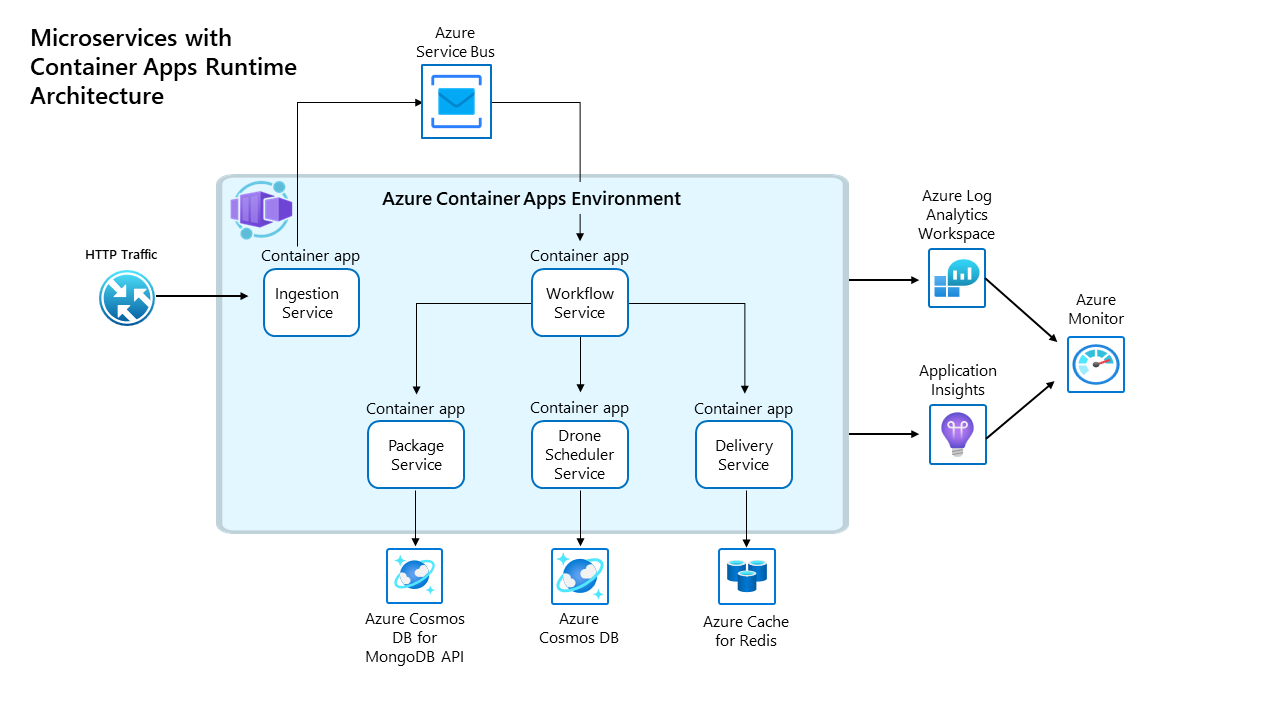
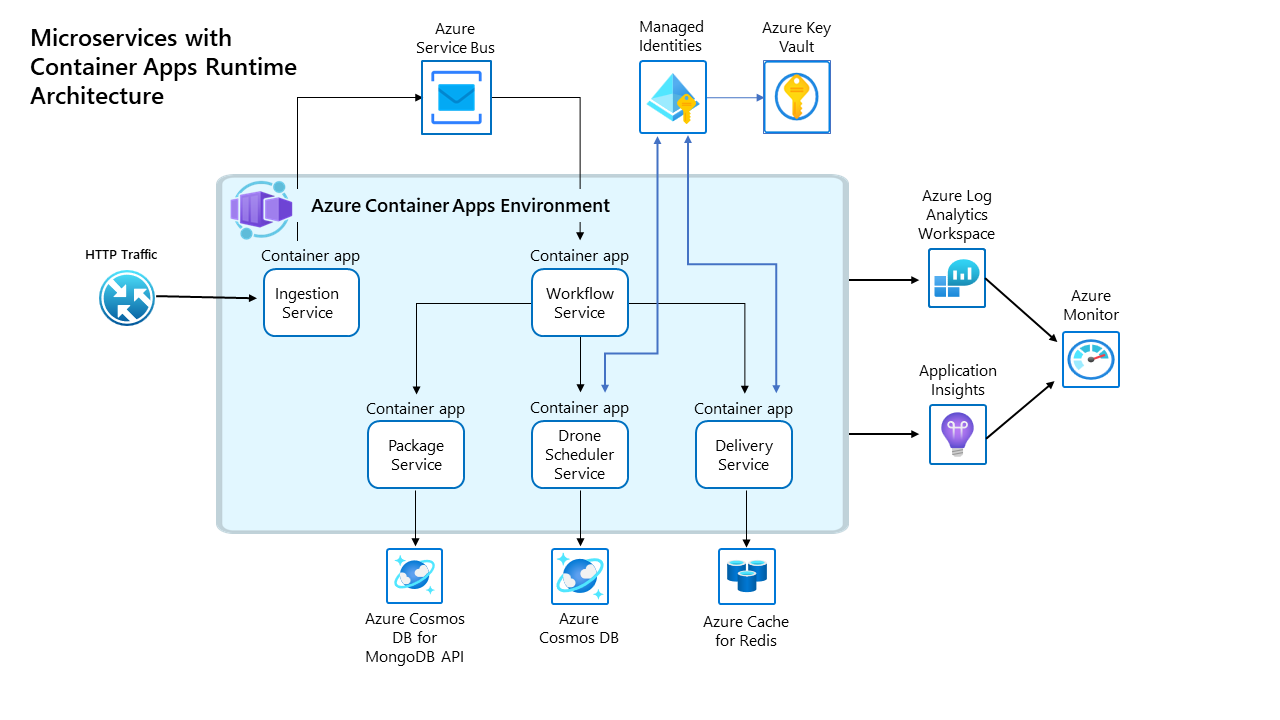
feat (mi): [general] change authN to use user managed identities (#26)

diff --git a/README.md b/README.md
@@ -10,7 +10,7 @@ Azure Container Apps is a new cloud native serverless managed service that is ju
 
 ## Migrating a microservices workload from AKS to Azure Container Apps
 
-This repository guides you during the process of running an example application composed of microservices in Azure Container Apps. In this example scenario, the Fabrikam Drone Delivery app that was previously running in Azure Kubernetes Services will be run in a newly created Azure Container App environment. This Azure managed service is optimized for running applications that span many microservices. This example will make some containers internet-facing via an HTTPS ingress, and internally accessible thanks to its built-in DNS-based service discovery capability. Additionally, it will manage their secrets in a secure manner.
+This repository guides you during the process of running an example application composed of microservices in Azure Container Apps. In this example scenario, the Fabrikam Drone Delivery app that was previously running in Azure Kubernetes Services will be run in a newly created Azure Container App environment. This Azure managed service is optimized for running applications that span many microservices. This example will make some containers internet-facing via an HTTPS ingress, and internally accessible thanks to its built-in DNS-based service discovery capability. Additionally, it will manage their secrets in a secure manner and authenticate against Azure KeyVault resources using User Managed Identities.
 
 ![Runtime architecture](microservices-with-container-apps-runtime-diagram.png)
 
@@ -18,12 +18,13 @@ This repository guides you during the process of running an example application 
 
 For more information on how the Container Apps feature are being used in this Reference Implementation, please take a look below:
 
-- [HTTPS ingress, this allows to expose the Ingestion service to internet.](https://docs.microsoft.com/en-us/azure/container-apps/ingress)
-- [Internal service discovery, Delivery, DroneScheduler and Package services must be internally reachable by Workflow service](https://docs.microsoft.com/en-us/azure/container-apps/connect-apps)
-- [Securely manage secrets, all services secrets are handled using this feature](https://docs.microsoft.com/en-us/azure/container-apps/secure-app)
-- [Run containers from any registry, the Fabrikam Drone Delivery uses ACR to publish its Docker images](https://docs.microsoft.com/en-us/azure/container-apps/containers)
-- [Use ARM templates to deploy my application, there is no need for another layer of indirection like Helm charts. All the Drone Delivery containers are part of the ARM templates](https://docs.microsoft.com/en-us/azure/container-apps/get-started)
-- [Logs, see the container logs directly in Log Analytics without configuring any provider from code or Azure service](https://docs.microsoft.com/en-us/azure/container-apps/monitor).
+- [HTTPS ingress, this allows to expose the Ingestion service to internet.](https://docs.microsoft.com/azure/container-apps/ingress)
+- [Internal service discovery, Delivery, DroneScheduler and Package services must be internally reachable by Workflow service](https://docs.microsoft.com/azure/container-apps/connect-apps)
+- [Use user-assigned identities when authenticating into Azure KeyVault from Delivery and DroneScheduler services](https://docs.microsoft.com/azure/container-apps/managed-identity?tabs=arm%2Cdotnet#add-a-user-assigned-identity)
+- [Securely manage secrets for Package, Ingestion and Workflow services](https://docs.microsoft.com/azure/container-apps/secure-app)
+- [Run containers from any registry, the Fabrikam Drone Delivery uses ACR to publish its Docker images](https://docs.microsoft.com/azure/container-apps/containers)
+- [Use ARM templates to deploy my application, there is no need for another layer of indirection like Helm charts. All the Drone Delivery containers are part of the ARM templates](https://docs.microsoft.com/azure/container-apps/get-started)
+- [Logs, see the container logs directly in Log Analytics without configuring any provider from code or Azure service](https://docs.microsoft.com/azure/container-apps/monitor).
 
 ## Prerequisites
 
@@ -56,8 +57,8 @@ Following the steps below will result in the creation of the following Azure res
 | Two Azure Cosmos Db instances             | Delivery and Package services have dependencies on Azure Cosmos DB |
 | An Azure Redis Cache instance             | Delivery service uses Azure Redis cache to keep track of inflight deliveries |
 | An Azure Service Bus                      | Ingestion and Workflow services communicate using Azure Service Bus queues |
-| Five Azure User Managed Identities        | These are going to give `Read` and `List` secrets permissions over Azure KeyVault to the microservices. :warning: This is currently not use in use from this Reference Implementation. |
-| Five Azure KeyVault instances             | Secrets are saved into Azure KeyVault instances. :warning: This is currently not use in use from this Reference Implementation. |
+| Five Azure User Managed Identities        | These are going to give `Read` and `List` secrets permissions over Azure KeyVault to the microservices.|
+| Five Azure KeyVault instances             | Secrets are saved into Azure KeyVault instances. :warning: Currently only 2 out of 5 instances are being used as part of this reference implementation |
 
 ## Clone the repository
 
@@ -93,6 +94,9 @@ Following the steps below will result in the creation of the following Azure res
    INGESTION_ID_PRINCIPAL_ID=$(az identity show -g rg-shipping-dronedelivery -n uid-ingestion --query principalId -o tsv)
    ```
 
+   > **Warning**
+   > As part of this initial migration, only Delivery and DroneScheduler services are making actual use of the Manage Identities to access their Azure KeyVault instances.
+
 1. Deploy the workload Azure Container Registry and Azure resources associated to them
 
    ```bash
@@ -102,8 +106,6 @@ Following the steps below will result in the creation of the following Azure res
    -p ingestionPrincipalId=$INGESTION_ID_PRINCIPAL_ID \
    -p packagePrincipalId=$PACKAGE_ID_PRINCIPAL_ID
    ```
-
-   :warning: Azure KeyVault and Managed Identities may be integrated in the future with Container Apps in this Reference Implementation.
 
 1. Obtain the ACR server details
 
@@ -140,15 +142,14 @@ Following the steps below will result in the creation of the following Azure res
    DELIVERY_DATABASE_NAME="${DELIVERY_COSMOSDB_NAME}-db"
    DELIVERY_COLLECTION_NAME="${DELIVERY_COSMOSDB_NAME}-col"
    DELIVERY_COSMOSDB_ENDPOINT=$(az cosmosdb show -g rg-shipping-dronedelivery -n $DELIVERY_COSMOSDB_NAME --query documentEndpoint -o tsv)
-   DELIVERY_COSMOSDB_KEY=$(az cosmosdb keys list -g rg-shipping-dronedelivery -n $DELIVERY_COSMOSDB_NAME --query primaryMasterKey -o tsv)
    DELIVERY_REDIS_NAME=$(az deployment group show -g rg-shipping-dronedelivery -n workload-stamp --query properties.outputs.deliveryRedisName.value -o tsv)
    DELIVERY_REDIS_ENDPOINT=$(az redis show -g rg-shipping-dronedelivery -n $DELIVERY_REDIS_NAME --query hostName -o tsv)
-   DELIVERY_REDIS_KEY=$(az redis list-keys -g rg-shipping-dronedelivery -n $DELIVERY_REDIS_NAME --query primaryKey -o tsv)
+   DELIVERY_KEYVAULT_URI=$(az deployment group show -g rg-shipping-dronedelivery -n workload-stamp --query properties.outputs.deliveryKeyVaultUri.value -o tsv)
 
    # drone scheduler
    DRONESCHEDULER_COSMOSDB_NAME=$(az deployment group show -g rg-shipping-dronedelivery -n workload-stamp --query properties.outputs.droneSchedulerCosmosDbName.value -o tsv)
    DRONESCHEDULER_COSMOSDB_ENDPOINT=$(az cosmosdb show -g rg-shipping-dronedelivery -n $DRONESCHEDULER_COSMOSDB_NAME --query documentEndpoint -o tsv)
-   DRONESCHEDULER_COSMOSDB_KEY=$(az cosmosdb keys list -g rg-shipping-dronedelivery -n $DRONESCHEDULER_COSMOSDB_NAME --query primaryMasterKey -o tsv)
+   DRONESCHEDULER_KEYVAULT_URI=$(az deployment group show -g rg-shipping-dronedelivery -n workload-stamp --query properties.outputs.droneSchedulerKeyVaultUri.value -o tsv)
 
    # workflow
    WORKFLOW_NAMESPACE_NAME=$(az deployment group show -g rg-shipping-dronedelivery -n workload-stamp --query properties.outputs.ingestionQueueNamespace.value -o tsv)
@@ -187,11 +188,10 @@ Following the steps below will result in the creation of the following Azure res
       deliveryCosmosdbDatabaseName=$DELIVERY_DATABASE_NAME \
       deliveryCosmosdbCollectionName=$DELIVERY_COLLECTION_NAME \
       deliveryCosmosdbEndpoint=$DELIVERY_COSMOSDB_ENDPOINT \
-      deliveryCosmosdbKey=$DELIVERY_COSMOSDB_KEY \
       deliveryRedisEndpoint=$DELIVERY_REDIS_ENDPOINT \
-      deliveryRedisKey=$DELIVERY_REDIS_KEY \
+      deliveryKeyVaultUri=$DELIVERY_KEYVAULT_URI \
       droneSchedulerCosmosdbEndpoint=$DRONESCHEDULER_COSMOSDB_ENDPOINT \
-      droneSchedulerCosmosdbKey=$DRONESCHEDULER_COSMOSDB_KEY \
+      droneSchedulerKeyVaultUri=$DRONESCHEDULER_KEYVAULT_URI \
       wokflowNamespaceEndpoint=$WORKFLOW_NAMESPACE_ENDPOINT \
       workflowNamespaceSASName=$WORKFLOW_NAMESPACE_SAS_NAME \
       workflowNamespaceSASKey=$WORKFLOW_NAMESPACE_SAS_KEY \
